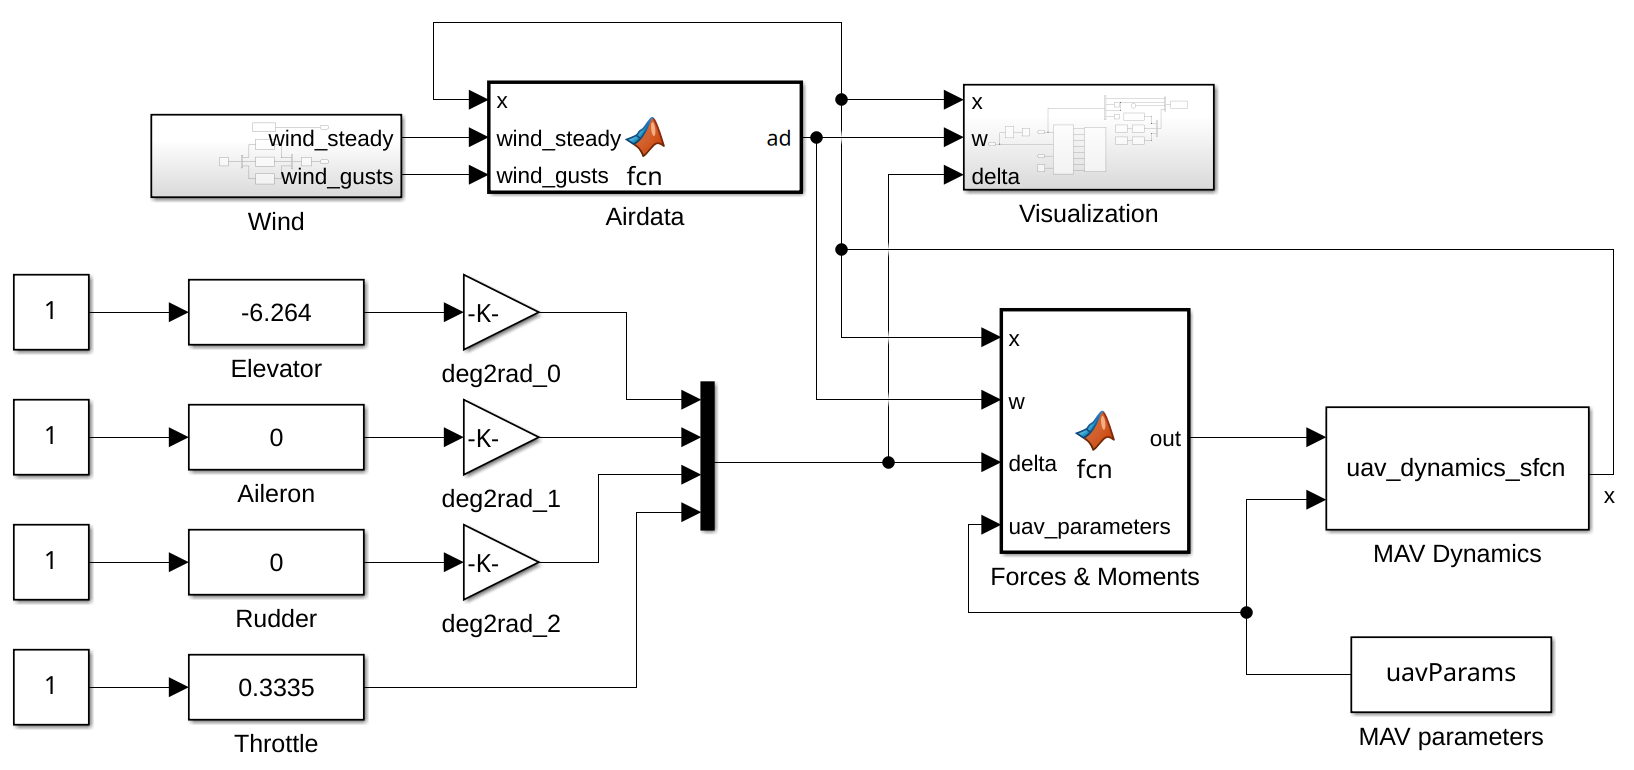
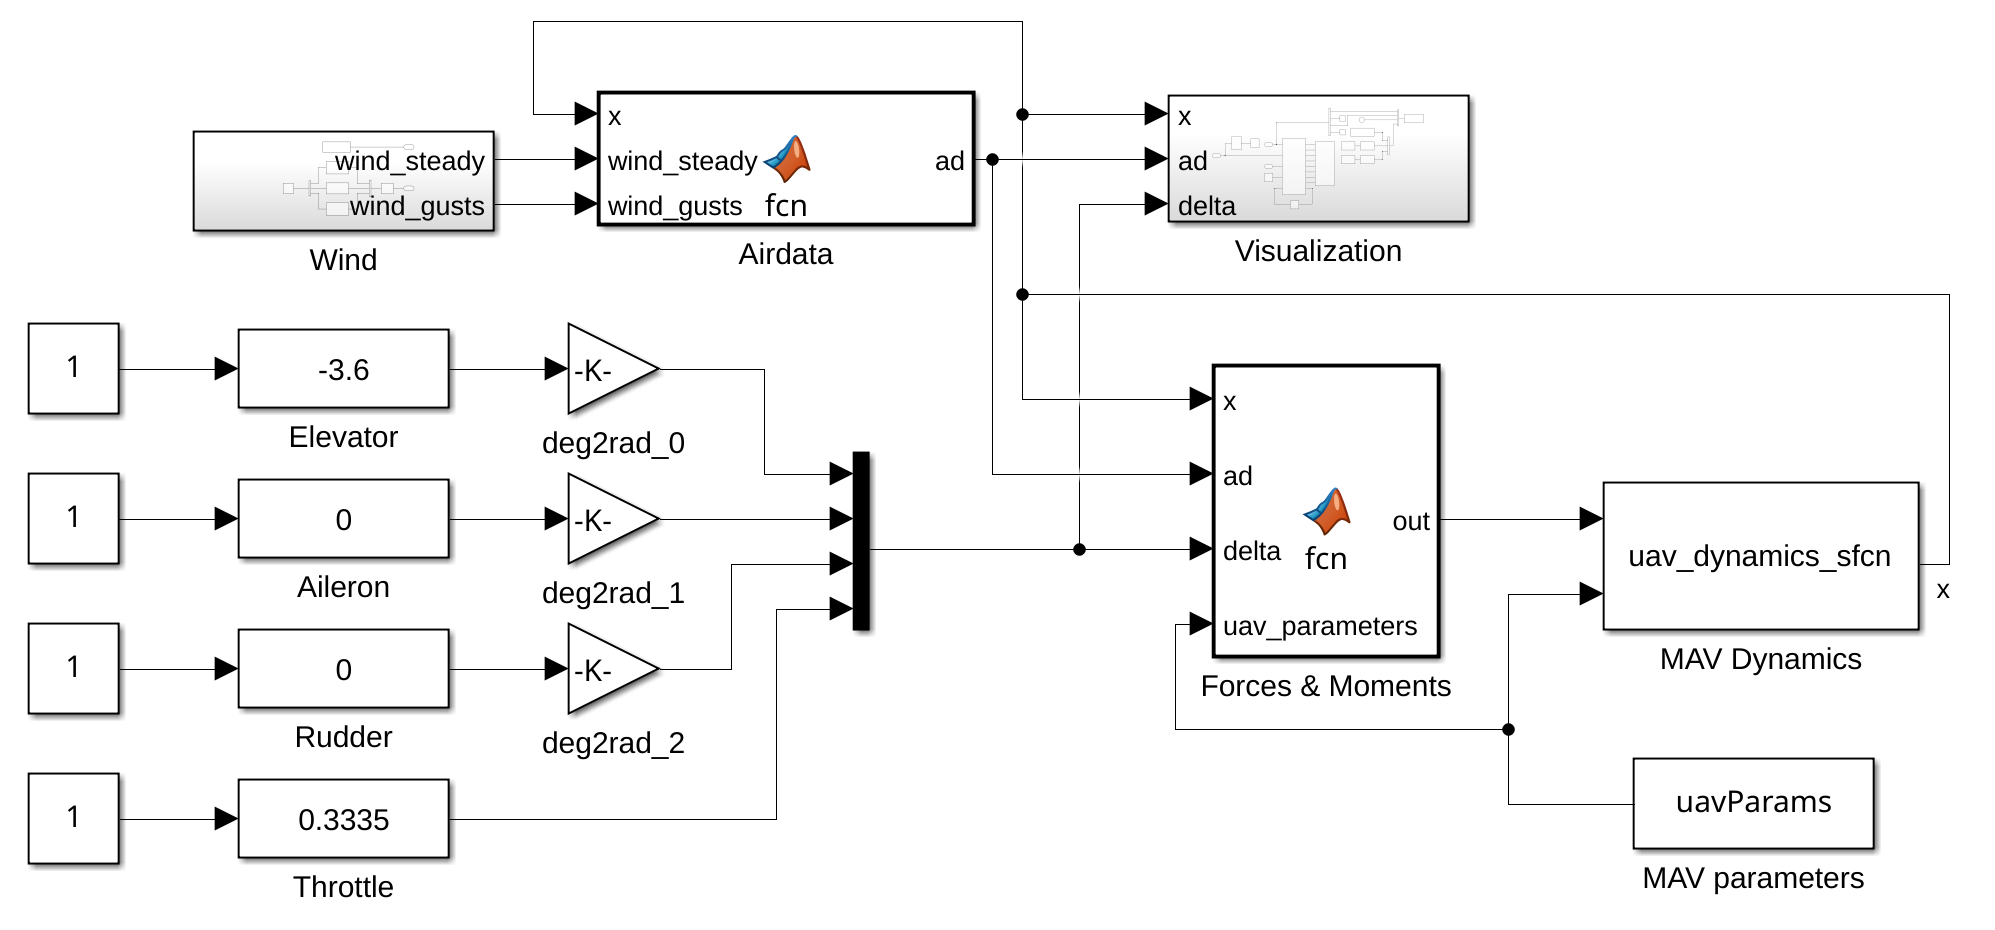
Add files via upload

diff --git a/chapter_04_stud/forces_moments.m b/chapter_04_stud/forces_moments.m
@@ -1,12 +1,12 @@
-function out = forces_moments(x,w,delta,uav_parameters)
+function out = forces_moments(x,ad,delta,uav_parameters)
     phi     =
     theta   = x(8); % pitch angle
     p       = x(10); % body frame roll rate
     q       =
     r       =
 
-    Va = w(1);  % airspeed
-    alpha = w(2);
+    Va = ad(1);  % airspeed
+    alpha = ad(2);
     beta =
 
     delta_e =
